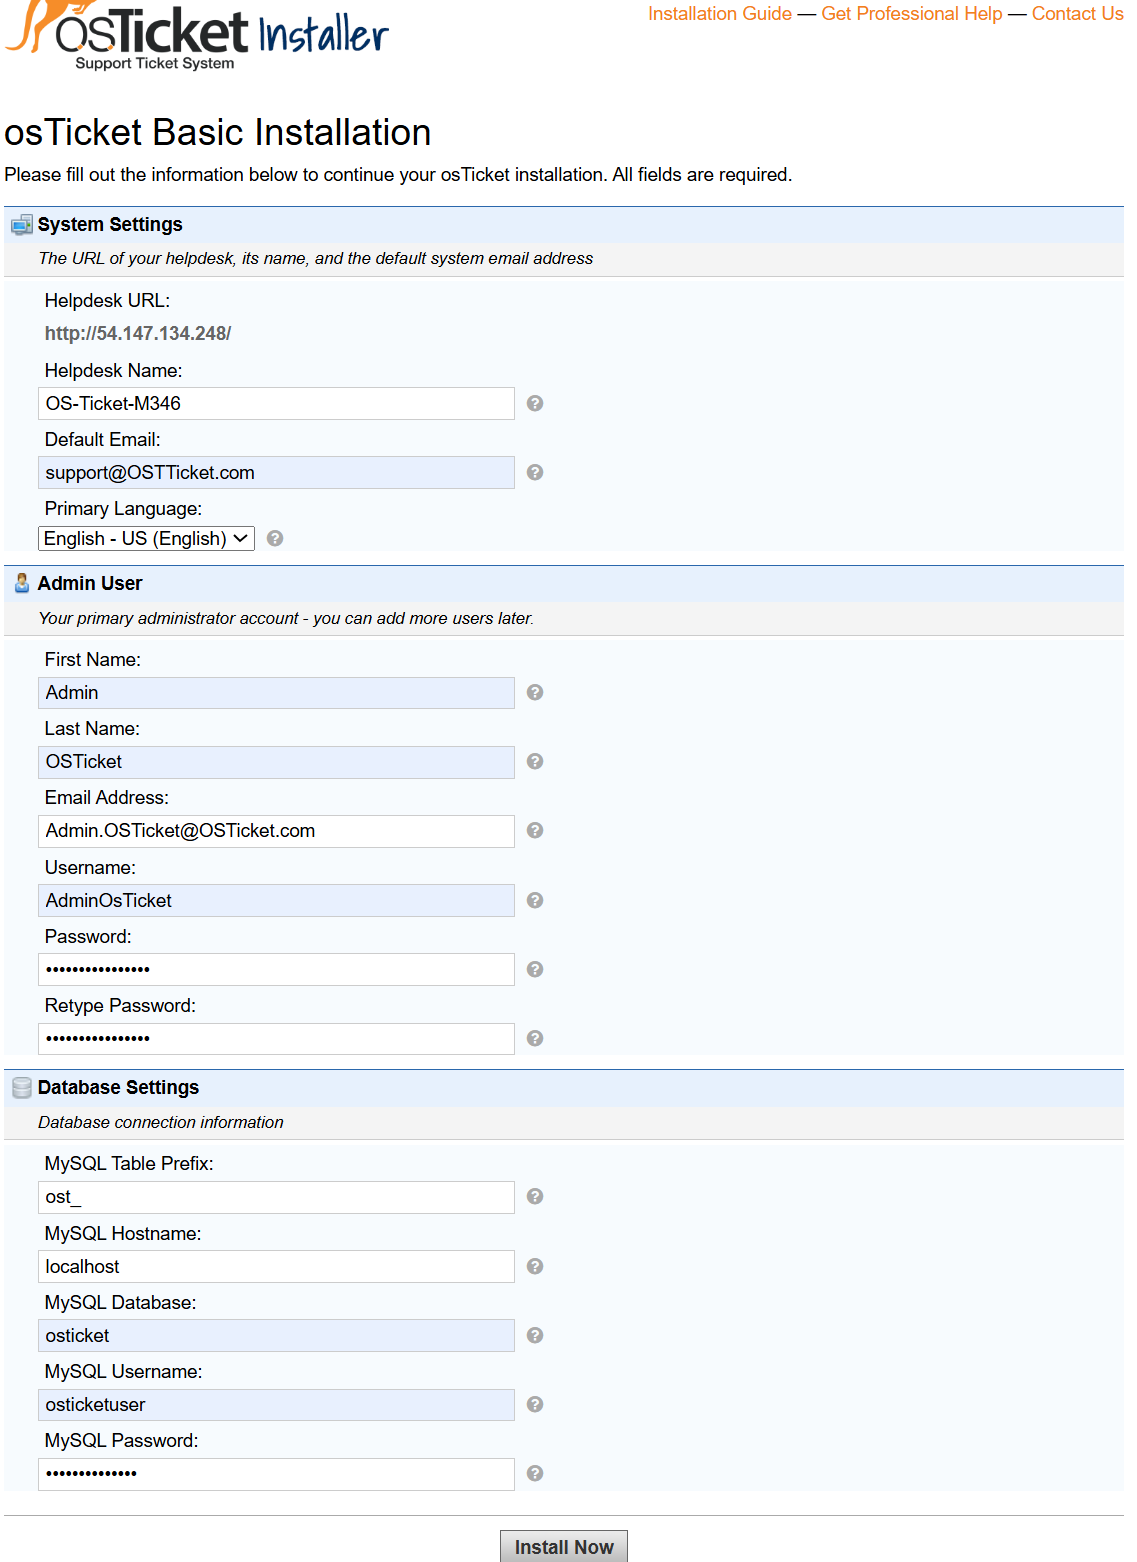
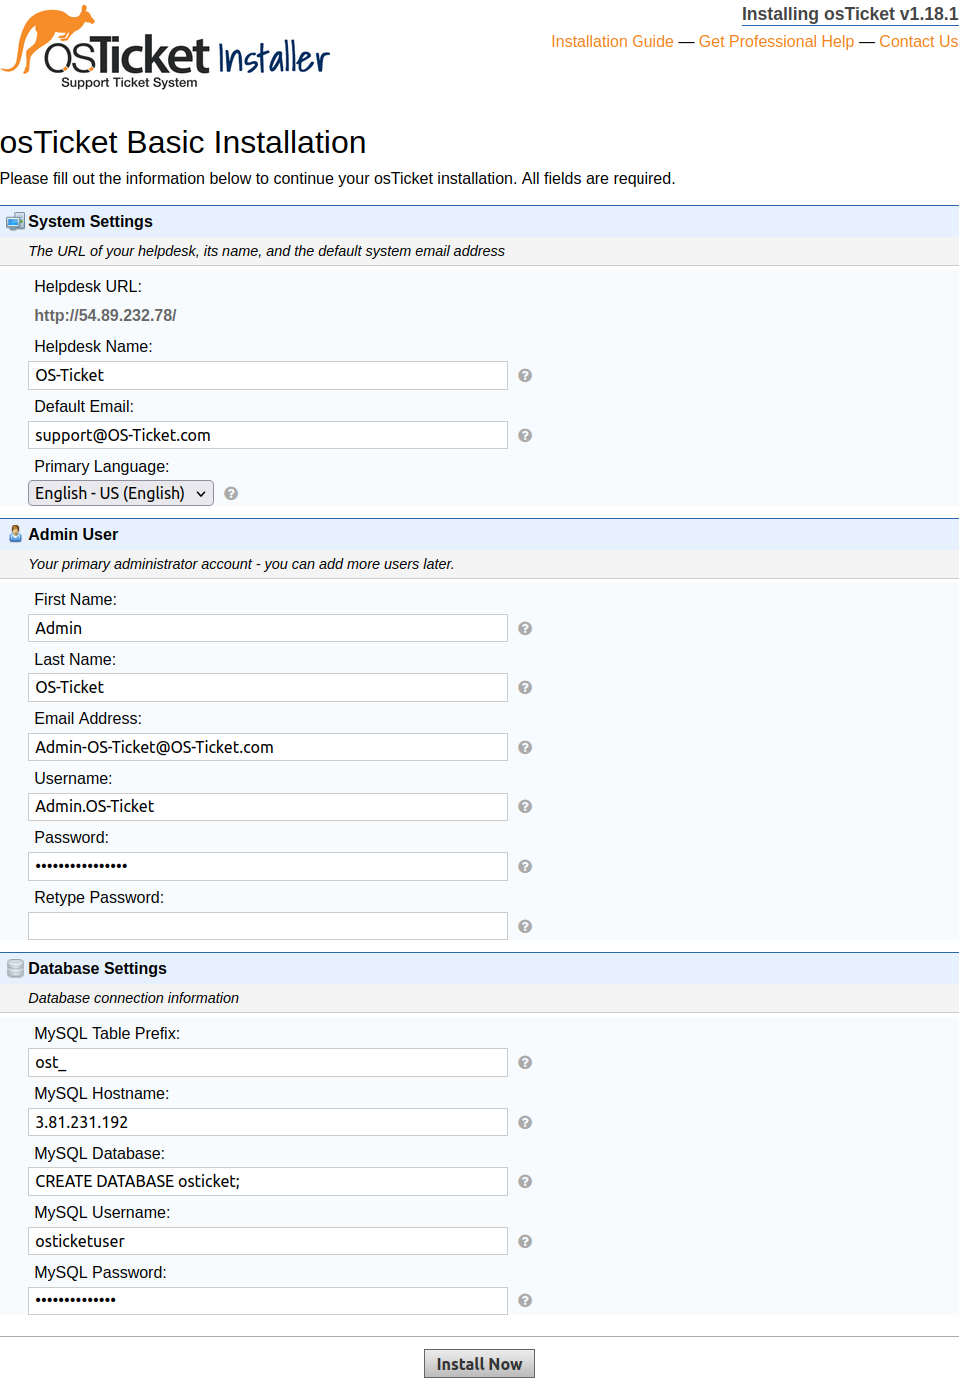
Erstellung Bild

diff --git a/Dokumentation.md b/Dokumentation.md
@@ -118,13 +118,15 @@ Cloud-Init ist eine großartige Lösung für die erste Konfiguration von Instanz
 
 3. Greife auf den Webserver zu: Öffne die IP-Adresse des Webservers in deinem Browser. 
 
-4. Führe die Installation von osTicket über den Browser aus:  
+4. Klicke auf "Continue" 
+
+5. Fülle die Felder nach deinen Bedürfnissen aus:  
    Datenbankeinstellungen:
-   - Host: <DB_SERVER_PUBLIC_IP>
-   - Datenbankname: osticket
-   - Benutzername: osticketuser
-   - Passwort: securepassword
-   - Administrator-Benutzerdaten einrichten.
+   - MySQL Hostname: <DB_SERVER_PUBLIC_IP>
+   - MySQL Database: osticket
+   - MySQL Username: osticketuser
+   - MySQL Password: securepassword  
+   Klicke Anschliessend auf "Install Now"
 
 ![image](https://github.com/levinfritz/M346-Levin-Noe-Janis/blob/main/Bilder/Installation_OS-Ticket.png)
 
